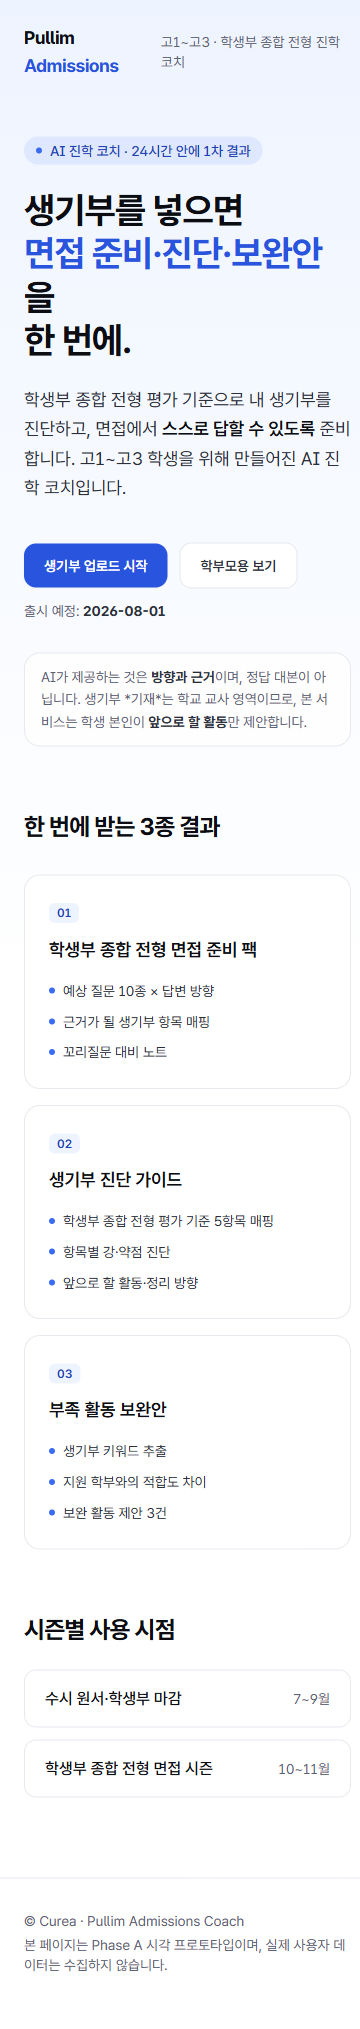
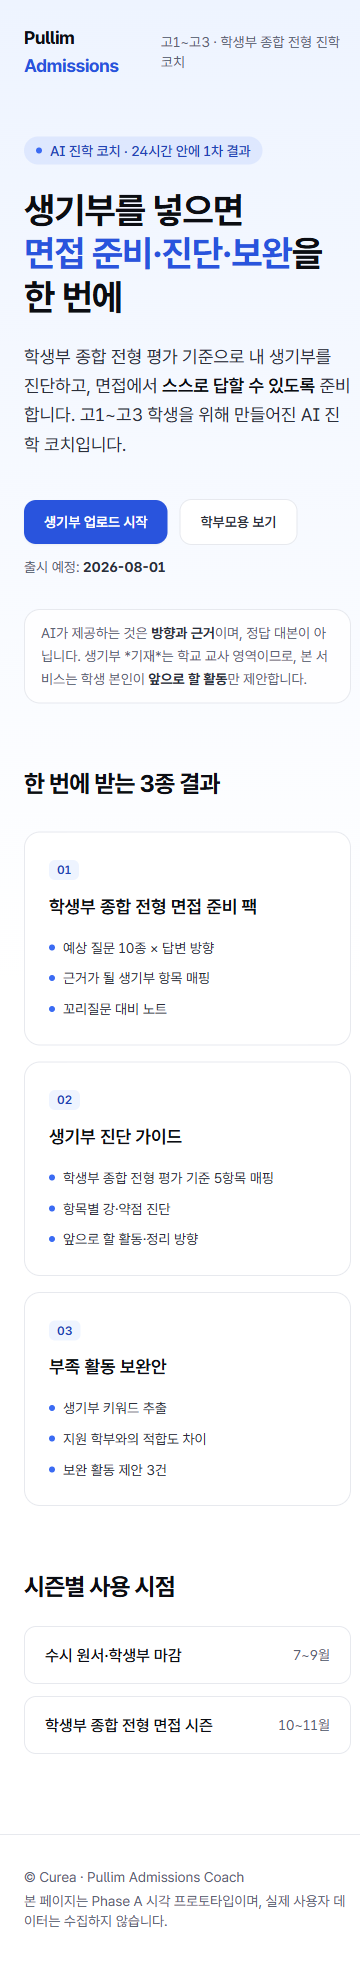
UX copy: landing hero (보완안→보완·마침표 제거) + /result disclaimer 제거
- apps/web/app/page.tsx: 히어로 카피
  생기부를 넣으면 / 면접 준비·진단·보완 / 한 번에
  (이전: 보완안을 한 번에.)
- apps/web/app/result/page.tsx: 면접 준비 팩 패널 하단의
  "Phase A 시각 셸에 3건만 노출…" 디스클레이머 삭제

docs/screenshot/{desktop,mobile}-{01-landing,05-result}.png 4장 재캡처.

Verified: build 7 static pages, /, /result HTTP 200.

diff --git a/apps/web/app/page.tsx b/apps/web/app/page.tsx
@@ -62,8 +62,8 @@ export default function LandingPage() {
         <h1 className="mt-6 text-4xl font-bold leading-[1.2] tracking-tight text-ink-900 sm:text-5xl sm:leading-[1.15]">
           생기부를 넣으면
           <br />
-          <span className="text-brand-600">면접 준비·진단·보완안</span>을
-          <br />한 번에.
+          <span className="text-brand-600">면접 준비·진단·보완</span>을
+          <br />한 번에
         </h1>
         <p className="mt-6 max-w-prose text-lg leading-relaxed text-ink-700">
           학생부 종합 전형 평가 기준으로 내 생기부를 진단하고, 면접에서{' '}

diff --git a/apps/web/app/result/page.tsx b/apps/web/app/result/page.tsx
@@ -140,9 +140,6 @@ function InterviewPanel() {
           </dl>
         </article>
       ))}
-      <p className="text-xs text-ink-500">
-        Phase A 시각 셸에 3건만 노출. 실 서비스는 정의 §4-1대로 질문 10종 제공.
-      </p>
     </section>
   );
 }
